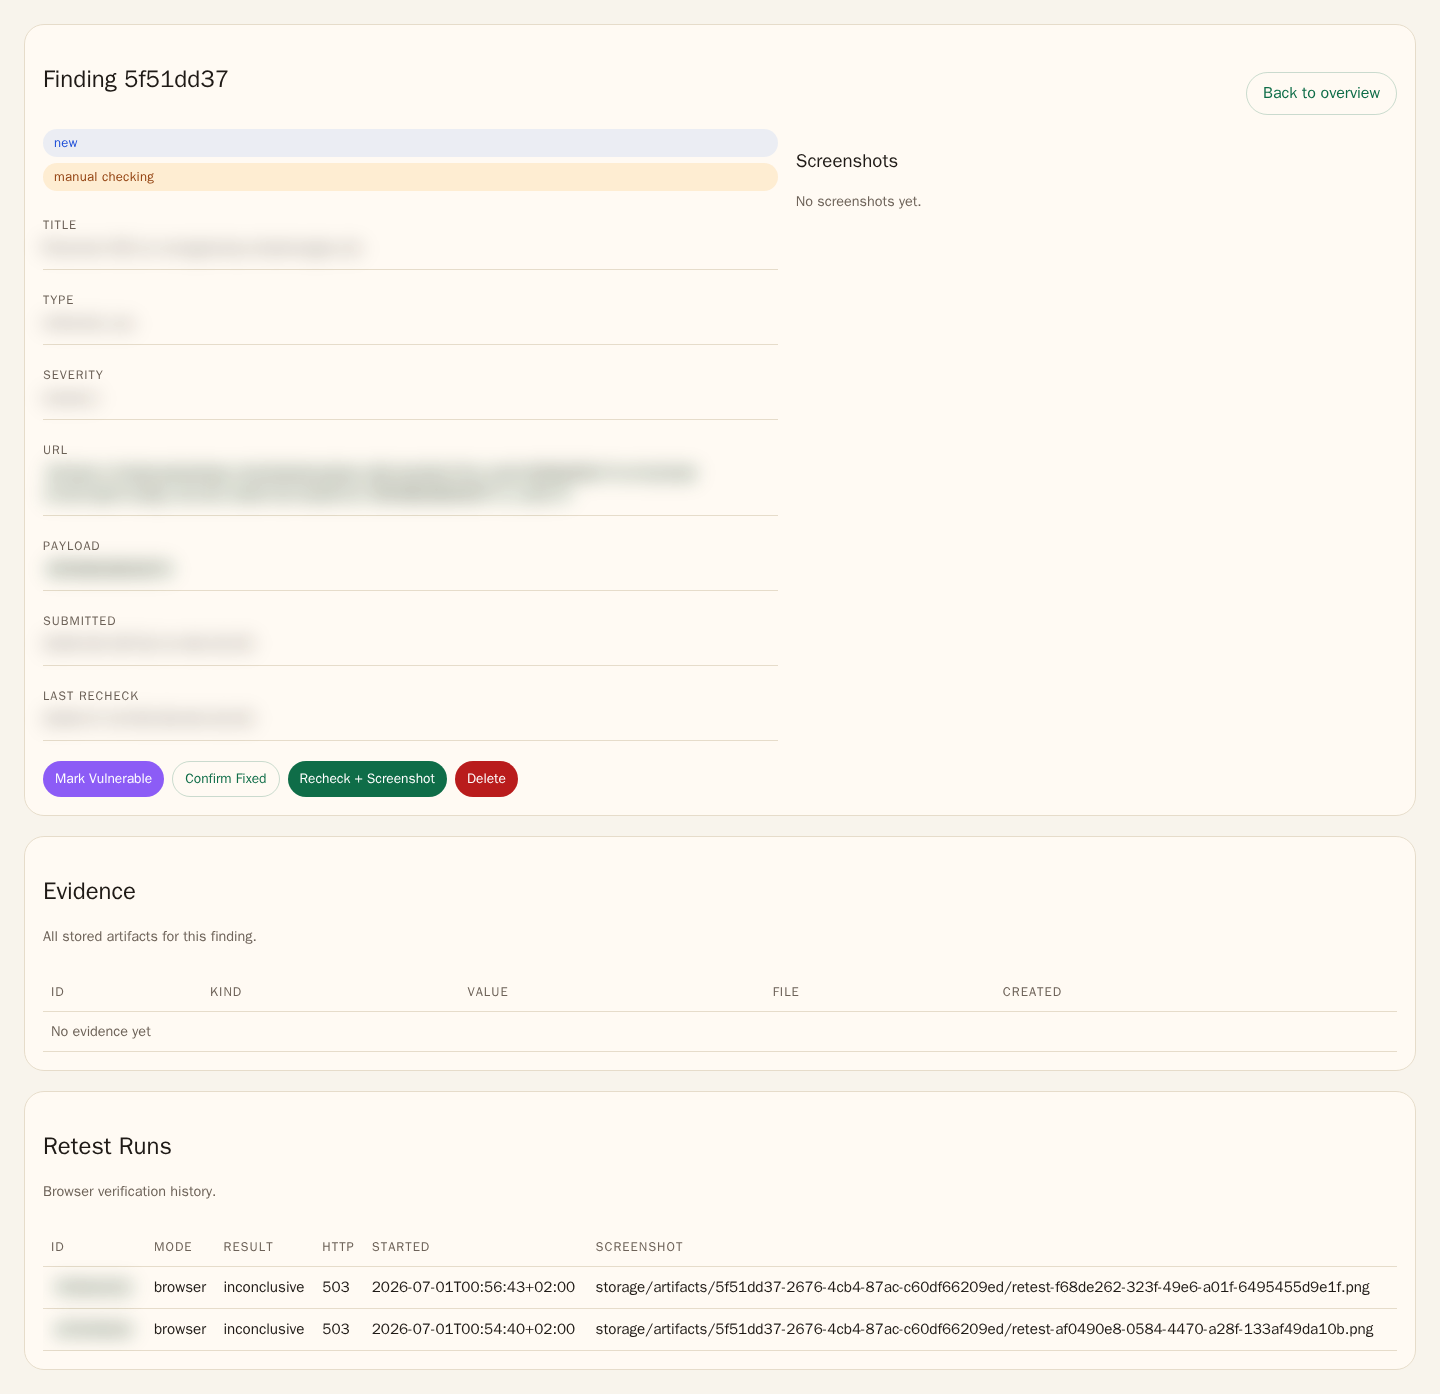
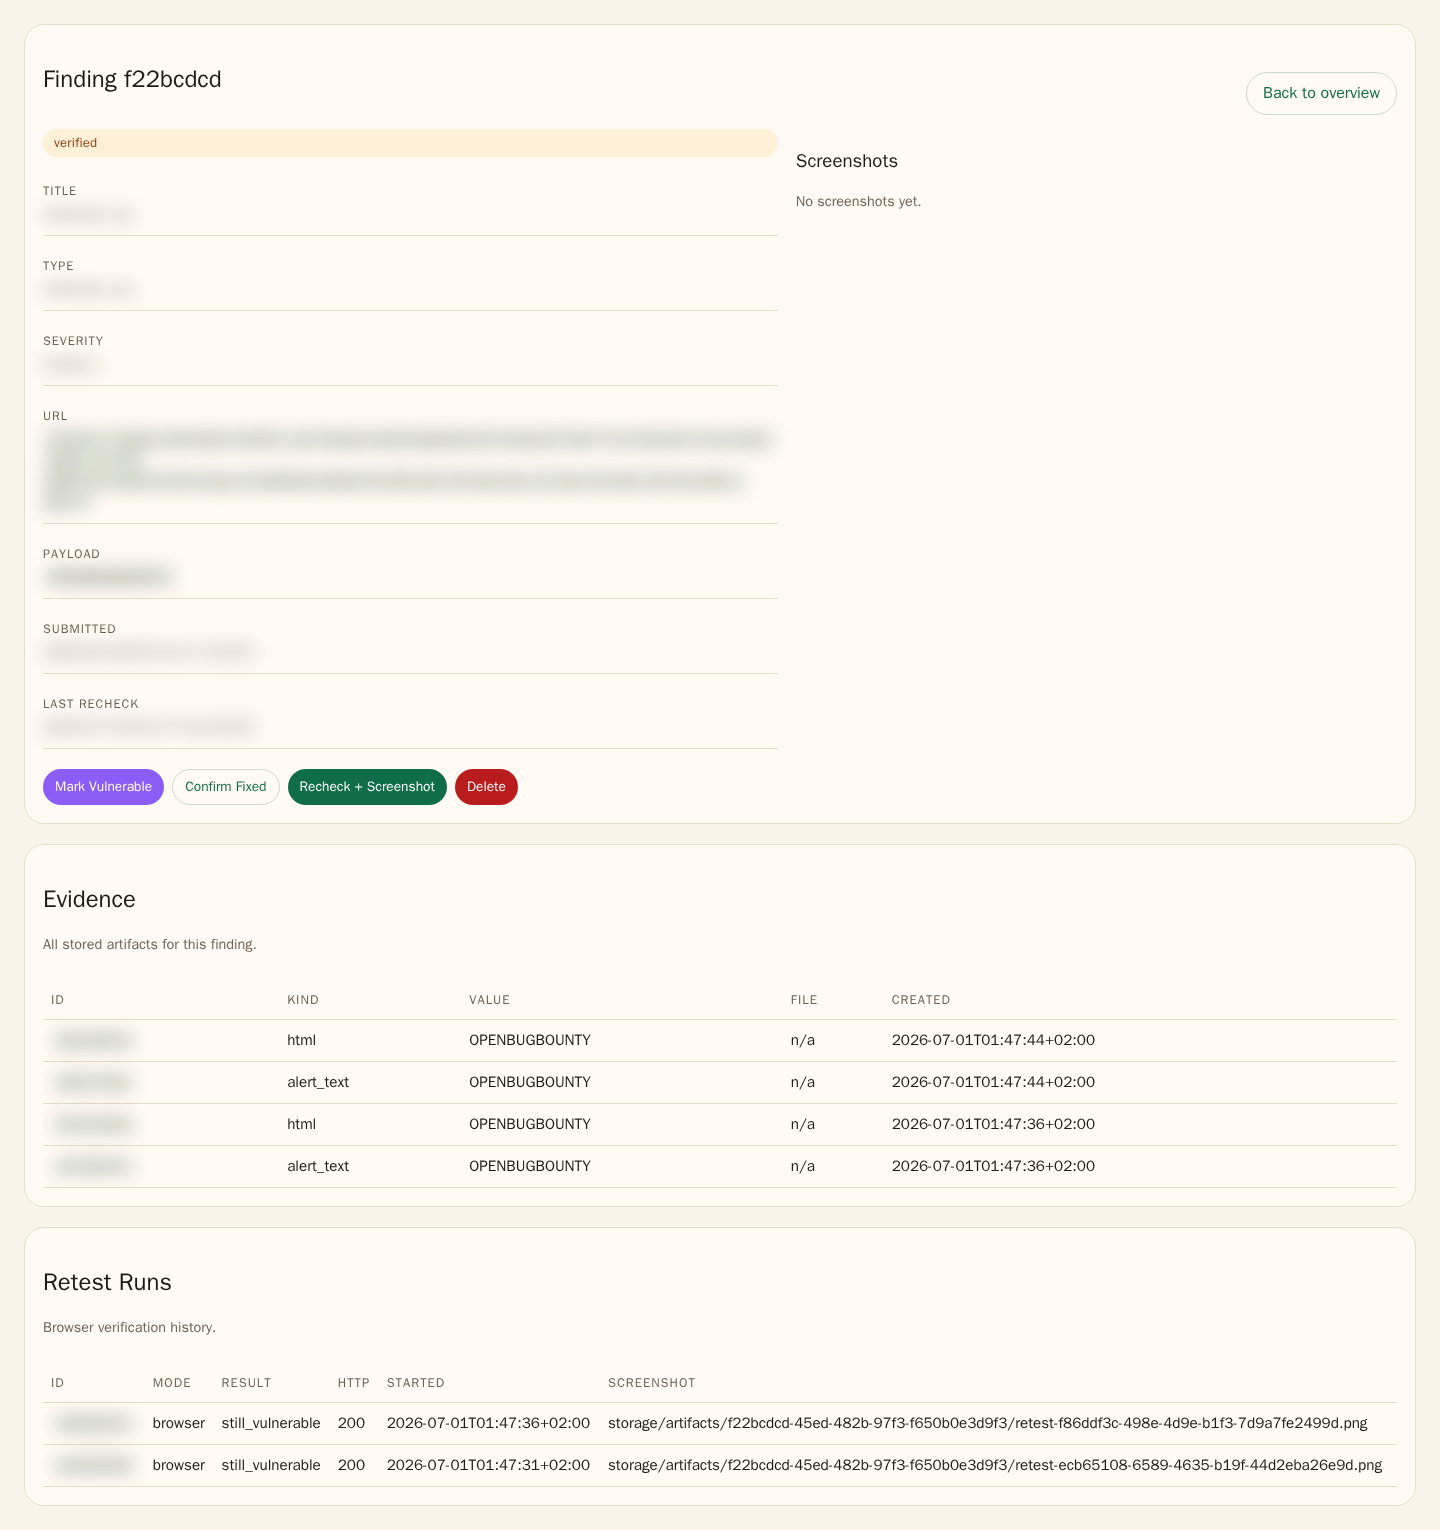
pagination

diff --git a/src/Command/ReviewScanCommand.php b/src/Command/ReviewScanCommand.php
@@ -123,11 +123,24 @@ final class ReviewScanCommand extends Command
         };
 
         $finishWorker = static function (array $worker) use (&$failed): int {
-            $stdout = stream_get_contents($worker['stdout']);
-            $stderr = stream_get_contents($worker['stderr']);
-            fclose($worker['stdout']);
-            fclose($worker['stderr']);
-            $exitCode = proc_close($worker['process']);
+            $stdout = '';
+            $stderr = '';
+            if (\is_resource($worker['stdout'])) {
+                $stdout = (string) stream_get_contents($worker['stdout']);
+                fclose($worker['stdout']);
+            }
+            if (\is_resource($worker['stderr'])) {
+                $stderr = (string) stream_get_contents($worker['stderr']);
+                fclose($worker['stderr']);
+            }
+
+            try {
+                $exitCode = \is_resource($worker['process']) ? proc_close($worker['process']) : 0;
+            } catch (\Throwable $exception) {
+                $exitCode = 1;
+                $stderr = trim($stderr."\n".$exception->getMessage());
+            }
+
             if ($exitCode !== 0) {
                 $failed[] = [
                     'finding' => $worker['finding'],
@@ -148,15 +161,35 @@ final class ReviewScanCommand extends Command
                 $running[] = $startWorker($finding);
             }
 
+            $finishedIndexes = [];
             foreach ($running as $index => $worker) {
-                $status = proc_get_status($worker['process']);
-                if ($status['running'] === true) {
+                if (!\is_resource($worker['process'])) {
+                    $finishedIndexes[] = $index;
                     continue;
                 }
 
-                $exitCode = $finishWorker($worker);
-                unset($running[$index]);
-                $running = array_values($running);
+                try {
+                    $status = proc_get_status($worker['process']);
+                } catch (\Throwable) {
+                    $status = ['running' => false];
+                }
+
+                if (($status['running'] ?? false) === true) {
+                    continue;
+                }
+
+                try {
+                    $exitCode = $finishWorker($worker);
+                } catch (\Throwable $exception) {
+                    $exitCode = 1;
+                    $io->warning(sprintf(
+                        'Worker crashed for %s (%s): %s',
+                        substr($worker['finding']->getId(), 0, 8),
+                        $worker['finding']->getDomain()->getHostname(),
+                        $exception->getMessage(),
+                    ));
+                }
+                $finishedIndexes[] = $index;
                 $processed++;
                 $progressBar->setMessage(sprintf('%s %s', substr($worker['finding']->getId(), 0, 8), $worker['finding']->getDomain()->getHostname()));
                 $progressBar->advance();
@@ -168,6 +201,13 @@ final class ReviewScanCommand extends Command
                         $worker['finding']->getDomain()->getHostname(),
                     ));
                 }
+            }
+
+            if ($finishedIndexes !== []) {
+                foreach (array_reverse($finishedIndexes) as $index) {
+                    unset($running[$index]);
+                }
+                $running = array_values($running);
             }
 
             if ($queue !== [] || $running !== []) {

diff --git a/src/Controller/WebController.php b/src/Controller/WebController.php
@@ -320,17 +320,16 @@ final class WebController
             .($statusFilter !== '' ? '<input type="hidden" name="status" value="'.$this->escape($statusFilter).'">' : '')
             .($bucketFilter !== '' ? '<input type="hidden" name="bucket" value="'.$this->escape($bucketFilter).'">' : '')
             .'<input type="hidden" name="page" value="1">'
-            .'<label>Per page'
-            .'<select name="pageSize" onchange="this.form.submit()">'
+            .'<label class="sr-only" for="page-size-select">Rows per page</label>'
+            .'<select id="page-size-select" name="pageSize" onchange="this.form.submit()">'
             .'<option value="10"'.($selectedPageSize === '10' ? ' selected' : '').'>10</option>'
             .'<option value="25"'.($selectedPageSize === '25' ? ' selected' : '').'>25</option>'
             .'<option value="50"'.($selectedPageSize === '50' ? ' selected' : '').'>50</option>'
             .'<option value="all"'.($selectedPageSize === 'all' ? ' selected' : '').'>All</option>'
             .'</select>'
-            .'</label>'
             .'</form>';
         $showingLine = sprintf(
-            '<div class="pagination-summary"><span class="hint">Showing</span>%s<span class="hint">of %d findings</span></div>',
+            '<div class="pagination-summary">Showing %s of %d findings</div>',
             $pageSizeForm,
             $totalFiltered,
         );
@@ -338,7 +337,6 @@ final class WebController
             $pagination = '<div class="pagination">'
                 .'<div class="pagination-actions">'
                 .($totalPages > 1 ? '<a href="'.$this->escape($currentPage > 1 ? $buildPageUrl($currentPage - 1) : '#').'#findings"'.$prevDisabled.'>Previous</a>' : '')
-                .sprintf('<span class="hint">Page %d of %d</span>', $currentPage, $totalPages)
                 .($totalPages > 1 ? '<a href="'.$this->escape($currentPage < $totalPages ? $buildPageUrl($currentPage + 1) : '#').'#findings"'.$nextDisabled.'>Next</a>' : '')
                 .'</div>'
                 .'</div>';
@@ -364,9 +362,26 @@ final class WebController
   <form method="post" action="/findings">
     <label>URL <input name="url" placeholder="https://example.com/search?q=%3Csvg%20onload=alert(1)%3E" required></label>
     <label>Payload <input name="payload" placeholder="OPENBUGBOUNTY" value="OPENBUGBOUNTY"></label>
-    <p class="hint">Your XSS must display <code>OPENBUGBOUNTY</code> in a JS popup, for example: <code>&lt;script&gt;alert('OPENBUGBOUNTY')&lt;/script&gt;</code> or <code>&lt;img src=x onerror=prompt(/OPENBUGBOUNTY/)&gt;</code></p>
+    <p class="hint" id="payload-hint">Your XSS must display <code data-payload-token>OPENBUGBOUNTY</code> in a JS popup, for example: <code>&lt;script&gt;alert('<span data-payload-token>OPENBUGBOUNTY</span>')&lt;/script&gt;</code> or <code>&lt;img src=x onerror=prompt(/<span data-payload-token>OPENBUGBOUNTY</span>/)&gt;</code></p>
     <label>Notes <textarea name="annotate" placeholder="Optional note."></textarea></label>
     <button type="submit">Save and Verify</button>
+    <script>
+(() => {
+  const payloadInput = document.querySelector('input[name="payload"]');
+  const tokens = document.querySelectorAll('[data-payload-token]');
+  const fallback = 'OPENBUGBOUNTY';
+  const update = () => {
+    const value = (payloadInput && payloadInput.value ? payloadInput.value.trim() : '') || fallback;
+    tokens.forEach((token) => {
+      token.textContent = value;
+    });
+  };
+  if (payloadInput) {
+    payloadInput.addEventListener('input', update);
+  }
+  update();
+})();
+    </script>
   </form>
 </section>
 
@@ -395,28 +410,23 @@ final class WebController
           </optgroup>
         </select>
       </label>
-      <label>Per page
-        <select name="pageSize">
-          <?php foreach ([10, 25, 50, 100] as $value): ?>
-            <option value="<?= $this->escape((string) $value) ?>"<?= $selectedPageSize === $value ? ' selected' : '' ?>><?= $this->escape((string) $value) ?></option>
-          <?php endforeach; ?>
-        </select>
-      </label>
     </div>
+    <input type="hidden" name="pageSize" value="<?= $this->escape($selectedPageSize) ?>">
     <div class="filter-actions">
       <button type="submit">Search</button>
       <a class="button ghost" href="/">Reset</a>
     </div>
   </form>
-  <?= $showingLine ?>
-  <?= $pagination ?>
   <div class="table-wrap">
     <table>
       <thead><tr><th>ID</th><th>Domain</th><th>Status</th><th>Submitted</th><th>Last Recheck</th></tr></thead>
       <tbody><?= $findingTableRows ?></tbody>
     </table>
   </div>
-  <?= $pagination ?>
+  <div class="pagination-footer">
+    <?= $showingLine ?>
+    <?= $pagination ?>
+  </div>
 </section>
 <?php
         return $this->renderLayout(
@@ -446,7 +456,7 @@ final class WebController
             .'button,.button{display:inline-flex;align-items:center;justify-content:center;gap:8px;min-height:42px;border:0;border-radius:999px;padding:10px 16px;background:var(--accent);color:#fff;font:inherit;font-weight:700;cursor:pointer;text-decoration:none}'
             .'button.secondary,.button.secondary{background:var(--accent-2)}button.ghost,.button.ghost{background:transparent;color:var(--accent);border:1px solid rgba(15,109,72,.22)}'
             .'button.danger,.button.danger{background:#b91c1c;color:#fff}'
-            .'.actions,.filter-actions{display:flex;gap:10px;flex-wrap:wrap;align-items:center}.inline-form{display:inline-block}.row-actions{display:flex;gap:8px;flex-wrap:wrap;margin-top:10px}.row-actions button,.row-actions .button{padding:8px 12px;min-height:36px;font-size:.86rem}.section-head{display:grid;gap:10px;margin-bottom:14px;grid-template-columns:1fr auto;align-items:end}.hint{color:var(--muted);font-size:.9rem}.table-wrap{overflow-x:auto}table{width:100%;border-collapse:collapse;font-size:.95rem}th,td{text-align:left;padding:10px 8px;border-bottom:1px solid var(--border);vertical-align:top}th{font-size:.8rem;text-transform:uppercase;letter-spacing:.08em;color:var(--muted)}.row-link{display:inline-flex;align-items:center;gap:8px;text-decoration:none}.row-link:hover code{text-decoration:underline}.detail-grid{display:grid;gap:18px;grid-template-columns:1.1fr .9fr;align-items:start}.detail-list{display:grid;gap:12px;margin:16px 0 0}.detail-list>div{display:grid;gap:4px;padding:10px 0;border-bottom:1px solid var(--border)}.detail-list dt{font-size:.78rem;text-transform:uppercase;letter-spacing:.08em;color:var(--muted)}.detail-list dd{margin:0;font-size:.98rem}.shot-grid{display:grid;gap:12px}.shot-card{margin:0;padding:12px;border:1px solid var(--border);border-radius:16px;background:rgba(255,255,255,.6)}.shot-card img{display:block;width:100%;height:auto;border-radius:12px}.shot-card figcaption{margin-top:8px;font-size:.82rem;color:var(--muted)}.pagination-summary{display:flex;align-items:center;gap:10px;flex-wrap:wrap;margin:14px 0 6px}.per-page-form{display:inline-flex;align-items:center;gap:8px}.per-page-form label{display:inline-flex;align-items:center;gap:8px;color:var(--muted)}.per-page-form select{width:auto;min-width:76px}.pagination{display:flex;justify-content:space-between;align-items:center;gap:12px;flex-wrap:wrap;margin:12px 0 14px}.pagination-actions{display:flex;align-items:center;gap:10px;flex-wrap:wrap}.pagination-actions a{display:inline-flex;align-items:center;justify-content:center;min-height:42px;padding:10px 16px;border-radius:999px;border:1px solid rgba(15,109,72,.22);text-decoration:none;color:var(--accent);font-weight:700}.pagination-actions a[aria-disabled=\"true\"]{pointer-events:none;opacity:.45}'
+            .'.actions,.filter-actions{display:flex;gap:10px;flex-wrap:wrap;align-items:center}.inline-form{display:inline-block}.row-actions{display:flex;gap:8px;flex-wrap:wrap;margin-top:10px}.row-actions button,.row-actions .button{padding:8px 12px;min-height:36px;font-size:.86rem}.section-head{display:grid;gap:10px;margin-bottom:14px;grid-template-columns:1fr auto;align-items:end}.hint{color:var(--muted);font-size:.9rem}.sr-only{position:absolute;width:1px;height:1px;padding:0;margin:-1px;overflow:hidden;clip:rect(0,0,0,0);white-space:nowrap;border:0}.table-wrap{overflow-x:auto}table{width:100%;border-collapse:collapse;font-size:.95rem}th,td{text-align:left;padding:10px 8px;border-bottom:1px solid var(--border);vertical-align:top}th{font-size:.8rem;text-transform:uppercase;letter-spacing:.08em;color:var(--muted)}.row-link{display:inline-flex;align-items:center;gap:8px;text-decoration:none}.row-link:hover code{text-decoration:underline}.detail-grid{display:grid;gap:18px;grid-template-columns:1.1fr .9fr;align-items:start}.detail-list{display:grid;gap:12px;margin:16px 0 0}.detail-list>div{display:grid;gap:4px;padding:10px 0;border-bottom:1px solid var(--border)}.detail-list dt{font-size:.78rem;text-transform:uppercase;letter-spacing:.08em;color:var(--muted)}.detail-list dd{margin:0;font-size:.98rem}.shot-grid{display:grid;gap:12px}.shot-card{margin:0;padding:12px;border:1px solid var(--border);border-radius:16px;background:rgba(255,255,255,.6)}.shot-card img{display:block;width:100%;height:auto;border-radius:12px}.shot-card figcaption{margin-top:8px;font-size:.82rem;color:var(--muted)}.pagination-footer{display:flex;justify-content:space-between;align-items:center;gap:12px;flex-wrap:wrap;margin:14px 0 0}.pagination-summary{display:flex;align-items:center;gap:10px;flex-wrap:wrap}.per-page-form{display:inline-flex;align-items:center;gap:8px}.per-page-form select{width:auto;min-width:76px}.pagination{display:flex;justify-content:flex-end;align-items:center;gap:12px;flex-wrap:wrap}.pagination-actions{display:flex;align-items:center;gap:10px;flex-wrap:wrap}.pagination-actions a{display:inline-flex;align-items:center;justify-content:center;min-height:42px;padding:10px 16px;border-radius:999px;border:1px solid rgba(15,109,72,.22);text-decoration:none;color:var(--accent);font-weight:700}.pagination-actions a[aria-disabled=\"true\"]{pointer-events:none;opacity:.45}'
             .'.notice{padding:12px 14px;border-radius:14px;margin-bottom:16px;border:1px solid transparent}.notice.success{background:rgba(15,109,72,.10);color:#0b4d34;border-color:rgba(15,109,72,.16)}.notice.error{background:rgba(185,28,28,.10);color:#7f1d1d;border-color:rgba(185,28,28,.16)}'
             .'.badge{display:inline-flex;align-items:center;padding:4px 10px;border-radius:999px;font-size:.82rem;font-weight:700;text-transform:lowercase;letter-spacing:.02em;border:1px solid transparent}.badge-stack{display:grid;gap:6px}.badge.status.new{background:rgba(59,130,246,.10);color:#1d4ed8}.badge.status.verified{background:rgba(245,158,11,.12);color:#92400e}.badge.status.reported{background:rgba(140,92,246,.12);color:#6d28d9}.badge.status.fixed{background:rgba(15,109,72,.12);color:#0b4d34}.badge.status.wontfix,.badge.status.duplicate{background:rgba(107,114,128,.12);color:#374151}.badge.review.manual_checking{background:rgba(245,158,11,.14);color:#92400e}.badge.review.confirmed_fixed{background:rgba(15,109,72,.14);color:#0b4d34}'
             .'@media (max-width:720px){main{padding-left:16px;padding-right:16px}.section-head{grid-template-columns:1fr}.split{grid-template-columns:1fr}.stats{grid-template-columns:repeat(2,minmax(0,1fr))}}'